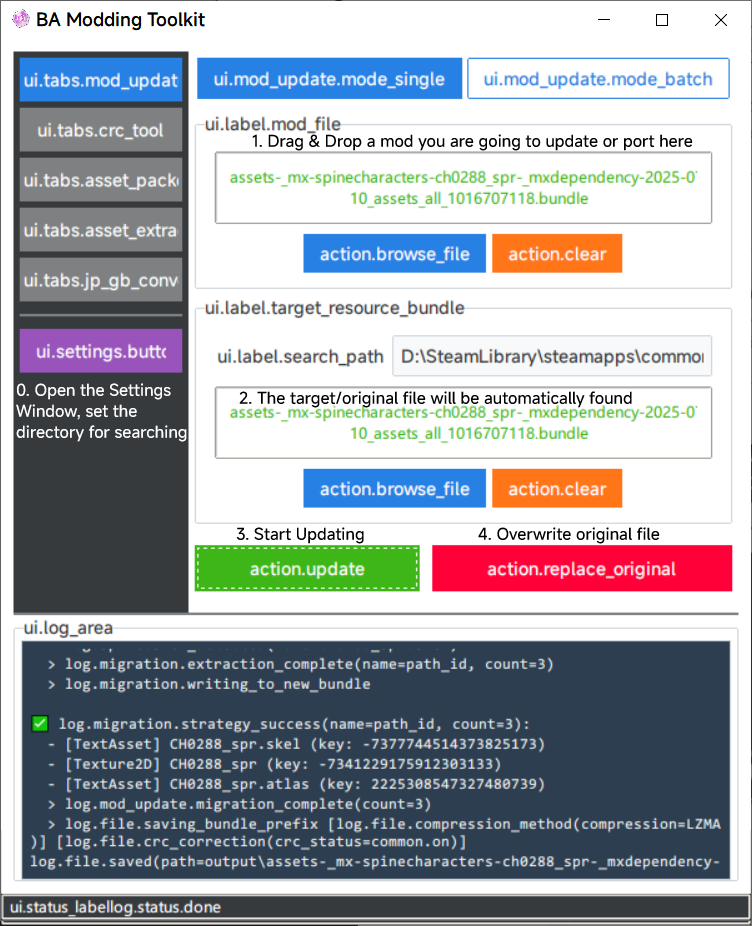
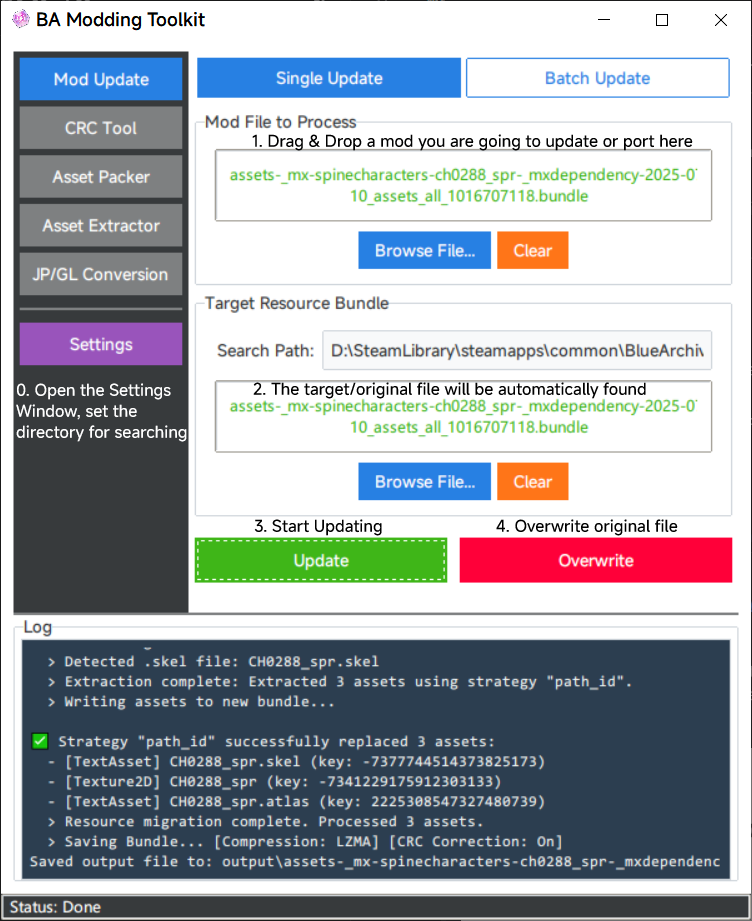
feat: 发布1.0.0版本并更新依赖和文档
- 升级版本号至1.0.0
- 降低Pillow依赖版本至10.4.0以兼容更多环境
- 在环境信息工具中添加toml和SpineAtlas版本检测
- 更新README文档以及英文界面图片
- 删去设置相关说明

Changed region(s): [[0.0, 0.0608, 1.0, 1.0]]

diff --git a/utils.py b/utils.py
@@ -206,7 +206,8 @@ def get_environment_info():
     
     # --- Attempt to import libraries and get their versions ---
     # This approach prevents the script from crashing if a library is not installed.
-
+    import importlib.metadata
+    
     try:
         import UnityPy
         unitypy_version = UnityPy.__version__ or "Installed"
@@ -242,6 +243,23 @@ def get_environment_info():
         tb_version = "Not installed"
     except (AttributeError, importlib.metadata.PackageNotFoundError):
         tb_version = "Unknown"
+
+    try:
+        import toml
+        toml_version = toml.__version__ or "Installed"
+    except ImportError:
+        toml_version = "Not installed"
+
+    try:
+        import SpineAtlas
+        spineatlas_version = SpineAtlas.__version__ or "Installed"
+    except ImportError:
+        spineatlas_version = "Not installed"
+    except AttributeError:
+        try:
+            spineatlas_version = importlib.metadata.version('spineatlas')
+        except (ImportError, importlib.metadata.PackageNotFoundError):
+            spineatlas_version = "Unknown"
 
     # --- Locale and Encoding Information (crucial for file path/text bugs) ---
     try:
@@ -294,6 +312,8 @@ def get_environment_info():
     lines.append(f"Tkinter Version:     {tk_version}")
     lines.append(f"TkinterDnD2 Version: {tkinterdnd2_version}")
     lines.append(f"ttkbootstrap Version:{tb_version}")
+    lines.append(f"toml Version:        {toml_version}")
+    lines.append(f"SpineAtlas Version:  {spineatlas_version}")
     
     lines.append("")
 

diff --git a/README.md b/README.md
@@ -12,13 +12,13 @@
 
 # BA Modding Toolkit
 
-> Note: i18n support is currently being added. As a temporary transition solution, non-Chinese users will use "debug" language by default when launching the program, which will display localization keys. This should largely help English users use the program.
+> English Translations are available now. If you find any errors or have any suggestions, please feel free to submit an issue or pull request.
 
 [简体中文](README_zh-CN.md) | English
 
 A toolkit based on UnityPy for automating the creation and updating of Blue Archive/ブルーアーカイブ mods.
 
-Supports Steam version (PC) and mobile versions (Global/JP server, Android/iOS).
+Supports Steam version (PC) and other versions (Global/JP server, PC/Android/iOS).
 
 ## Introduction
 
@@ -44,7 +44,7 @@ The program contains multiple functional tabs:
 - **CRC 修正工具** (CRC Fix Tool): CRC checksum correction functionality
 - **资源打包** (Asset Packer): Pack asset files from a folder into a Bundle file, replacing the corresponding assets in the Bundle
 - **资源提取** (Asset Extractor): Extract specified types of assets from Bundle files
-- **JP/GB转换** (JP/GB Conversion): Convert between JP server format and Global server format
+- **JP/GL 转换** (JP/GL Conversion): Convert between JP server format and Global server format
 
 
 ## How to Use
@@ -53,55 +53,18 @@ The program contains multiple functional tabs:
 - Click the **Settings** button at the top of the main interface to open the settings window, configure the game root directory and output directory.
 - Click the "Save" button to save the configuration, which will be automatically restored upon next startup.
 
-<details>
-<summary>Click to expand detailed settings interface description</summary>
-
-![Settings](assets/help/gui-help-settings-en.png)
-
-#### Directory Settings
-- **游戏根目录** (Game Root Directory): Set the game installation directory.
-    - The program can automatically detect the following subdirectories:
-    ```
-    "BlueArchive_Data/StreamingAssetsPUB/Resource/GameData/Windows",
-    "BlueArchive_Data/StreamingAssetsPUB/Resource/Preload/Windows",
-    "GameData/Windows",
-    "Preload/Windows",
-    "GameData/Android",
-    "Preload/Android",
-    ```
-- **输出目录** (Output Directory): Set the save location for generated files
-
-#### Global Options
-- **CRC 修正** (CRC Fix): Automatically corrects the Bundle file's CRC checksum, preventing the file from being rejected after modification
-    - Currently only required for Steam version Mods, can be ignored for other versions
-- 添加私货: Add `0x08080808` before CRC correction. ~~You can ignore it lol~~
-- **创建备份** (Create Backup): Creates a backup of the original file before overwriting it
-- **压缩方式** (Compression Method): Select the compression method for Bundle files (LZMA, LZ4, Keep Original, No Compression)
-
-#### Asset Type Options
-- **Texture2D**: Illustrations, textures, image assets
-- **TextAsset**: `.atlas`, `.skel` files, Spine animation skeleton files
-- **Mesh**: 3D model assets
-- **ALL**: All types of assets, including those not listed above (experimental, not recommended)
-
-#### Spine Converter (Experimental Feature)
+#### Spine Converter (Optional Extension Feature)
 (Optional) Uses a third-party program to convert Spine 3.8 format `.skel` files from some old mods to the currently supported 4.2 format.
 - You need to download the third-party Spine converter program yourself. BAMT only calls the program to convert Spine files, not provides the program itself.
 - Download URL: [SpineSkeletonDataConverter](https://github.com/wang606/SpineSkeletonDataConverter/releases)
 - Configure the path to `SpineSkeletonDataConverter.exe` in the settings interface, and check the "启用 Spine 转换" (Enable Spine Conversion) option.
-- Configure the path to `SpineAtlasDowngrade.exe` in the settings interface, and check the "Spine降级" (Spine Downgrade) option. If enabled, the program will convert the Spine Atlas file to Spine 3.8 format in the **Asset Extraction** process.
 
 ##### Notes
 - This is an experimental feature that cannot guarantee all mods can be successfully upgraded, suitable only for advanced users.
 - Even without configuring `SpineSkeletonDataConverter.exe`, you can still use this program normally to update mods that *use Spine files compatible with the current version (4.2.xx)*.
     - If the mod you want to update was created in 2025 or later, it already uses Spine 4.2 format and can be updated normally without configuring this option.
-- The `SpineAtlasDowngrade.exe` program is used during **asset extraction** to convert `.atlas` files to Spine 3.8 format, making it easier for mod creators to edit.
-    - If you only need to update mods, you don't need to configure this option.
-
-</details>
 
 ![How to update a mod with BAMT GUI](assets/help/gui-help-mod-update-en.png)
-> Note: i18n support is still in development, these are temporary UI texts.
 
 ### Mod 更新 (Mod Update)
 #### 单个更新 (Single Update)
@@ -131,7 +94,7 @@ The "计算CRC值" (Calculate CRC Value) button can be used to manually view the
 ### 资源提取 (Asset Extractor)
 1. Drag and drop or browse to select the Bundle file to extract assets from
 2. Select an output directory, the program will automatically create a subdirectory named after the Bundle file
-3. (Optional) In the settings window, configure `SpineAtlasDowngrade.exe` program path, and enable "启用 Spine 降级" (Enable Spine Downgrade) option. If enabled, the program will automatically call the third-party program to convert the Spine files to Spine 3.8 format in the extraction process.
+3. (Optional) In the settings window, configure `SpineSkeletonDataConverter.exe` program path, and enable "启用 Spine 降级" (Enable Spine Downgrade) option. If enabled, the program will automatically call the third-party program to convert the Spine files to Spine 3.8 format in the extraction process.
 4. Click the "开始提取" (Start Extraction) button, the program will extract the specified types of assets
 
 This feature is for extracting assets from existing Bundle files for modification or preview.
@@ -160,7 +123,7 @@ Drag the `texture` folder to the first input box of the interface, and drag the 
 
 This will replace the assets with the same name in the target Bundle with the `*.png`, `*.skel`, and `*.atlas` files from the `texture` folder.
 
-### JP/GB转换 (JP/GB Conversion)
+### JP/GL 转换 (JP/GL Conversion)
 Conversion between JP server format (two separate Bundle files) and Global server format (one Bundle file) for a mod that modified the Spine assets.
 
 1. Select the conversion direction at the top of the page (JP -> Global or Global -> JP)
@@ -267,9 +230,10 @@ python maincli.py crc --modified "my_mod.bundle" --check-only
 
 The table below lists tested environment configurations for reference.
 
-| Operating System | Python Version | UnityPy Version | Pillow Version | Status | Note   |
+| Operating System | Python | UnityPy | Pillow | Status | Note   |
 |:------------------- |:-------------- |:--------------- |:-------------- |:------ | :--- |
-| Windows 10          | 3.12.4         | 1.23.0          | 10.4.0         | ✅     | Dev Env |
+| Windows 10          | 3.12.4         | 1.23.0     | 12.0.0    | ✅   | Dev Env |
+| Windows 10          | 3.12.4         | 1.23.0     | 10.4.0    | ✅   |  |
 | Windows 10          | 3.13.7         | 1.23.0          | 11.3.0         | ✅     |  |
 | Ubuntu 22.04 (WSL2) | 3.13.10        | 1.23.0          | 12.0.0         | ✅     |  |
 
@@ -281,6 +245,7 @@ Please ensure that Python 3.12 or higher is installed.
 git clone https://github.com/Agent-0808/BA-Modding-Toolkit.git
 cd BA-Modding-Toolkit
 
+# legacy way to install dependencies
 python -m pip install -r requirements.txt
 python main.pyw
 # or use uv to manage dependencies
@@ -313,7 +278,7 @@ BA-Modding-Toolkit/
 │   ├── crc_tool_tab.py         # CRC Fix Tool tab
 │   ├── asset_packer_tab.py     # Asset Packer tab
 │   ├── asset_extractor_tab.py  # Asset Extractor tab
-│   └── jp_gb_conversion_tab.py # JP/GB Conversion tab
+│   └── jp_conversion_tab.py    # JP/GL Conversion tab
 ├── maincli.py       # Command-line interface entry point
 ├── processing.py    # Core processing logic
 ├── utils.py         # Utility classes and helper functions
@@ -323,8 +288,8 @@ BA-Modding-Toolkit/
 │ 
 │ # ============= Misc. =============
 │ 
-├── requirements.txt # Python dependency list
-├── pyproject.toml   # Python项目配置文件
+├── requirements.txt # Python dependency list (for legacy installation)
+├── pyproject.toml   # Python project configuration file
 ├── LICENSE          # Project license file
 ├── assets/          # Project asset folder
 │ └── help/              # Images in help documentation
@@ -344,13 +309,14 @@ BA-Modding-Toolkit/
 ### Third-Party Libraries
 This project uses the following excellent 3rd-party libraries:
 
-- [UnityPy](https://github.com/K0lb3/UnityPy): Core library for parsing and manipulating Unity Bundle files
-- [Pillow](https://python-pillow.github.io/): Export functionality for Texture2D type assets in the game
-- [tkinterdnd2](https://github.com/pmgagne/tkinterdnd2): Adds drag-and-drop functionality support for Tkinter
-- [ttkbootstrap](https://github.com/israel-dryer/ttkbootstrap): Modern Tkinter theme library
-- [toml](https://github.com/uiri/toml): TOML configuration file parser
+- [UnityPy](https://github.com/K0lb3/UnityPy)（MIT License）: Core library for parsing and manipulating Unity Bundle files
+- [Pillow](https://python-pillow.github.io/)（MIT License）: Image processing
+- [tkinterdnd2](https://github.com/pmgagne/tkinterdnd2)（MIT License）: Adds drag-and-drop functionality support for Tkinter
+- [ttkbootstrap](https://github.com/israel-dryer/ttkbootstrap)（MIT License）: Modern Tkinter theme library
+- [toml](https://github.com/uiri/toml)（MIT License）: TOML configuration file parser
+- [SpineAtlas](https://github.com/Rin-Wood/SpineAtlas)（MIT License）: Spine animation file atlas parser and editor
 
-## See Also
+### See Also
 Some useful related repositories:
 - [BA-characters-internal-id](https://github.com/Agent-0808/BA-characters-internal-id) ：Search for character names and internal file IDs
 - [BA-AD](https://github.com/Deathemonic/BA-AD)：Download original game resources
